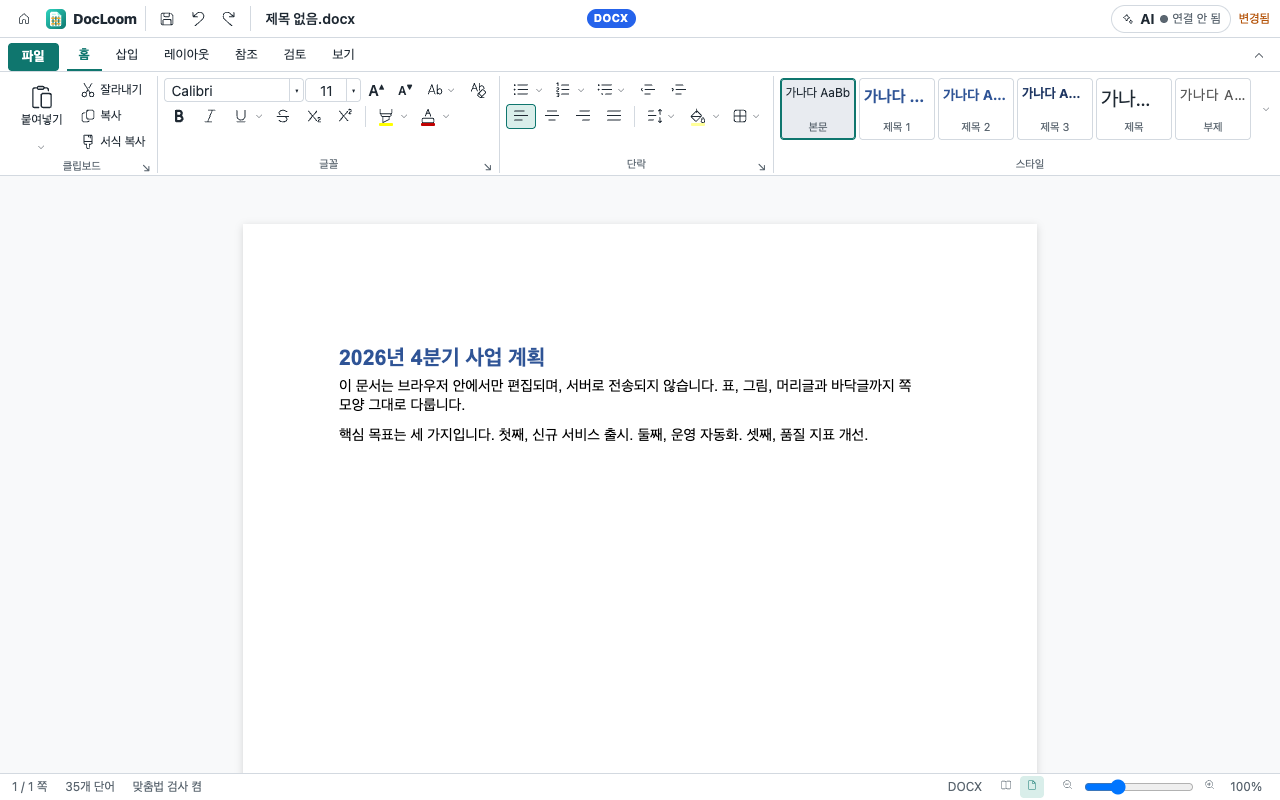
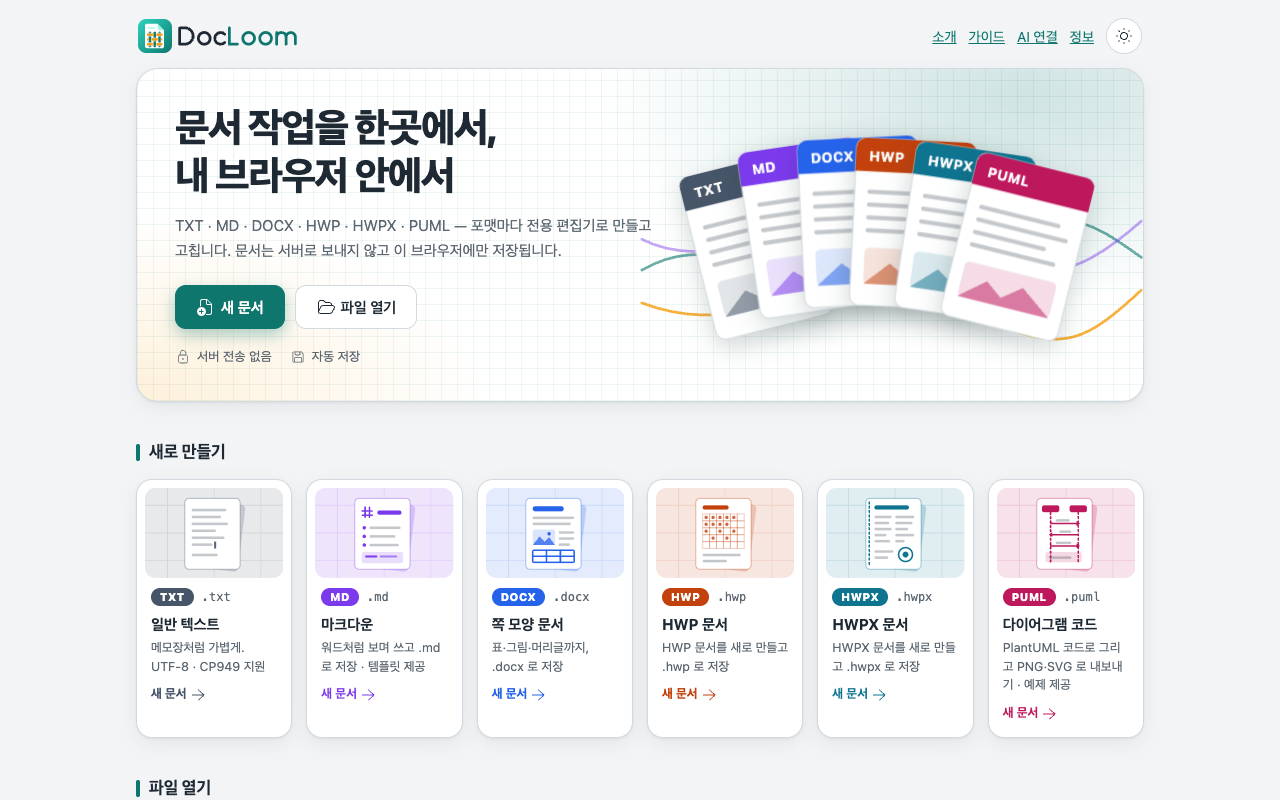
feat(home): 서비스 썸네일을 메인 페이지 PC 화면으로 통일 (1.3.13)

diff --git a/factories/index.html b/factories/index.html
@@ -36,7 +36,7 @@
 <script type="application/ld+json">{"@context":"https://schema.org","@graph":[{"@type":"WebSite","@id":"https://kimjinwan.com/#website","url":"https://kimjinwan.com/","name":"Kein — 김진완","alternateName":["김진완 포트폴리오","Kim Jinwan"],"inLanguage":["ko","en"],"publisher":{"@id":"https://kimjinwan.com/#person"}},{"@type":"Person","@id":"https://kimjinwan.com/#person","name":"김진완","alternateName":["Kim Jinwan","Kein"],"url":"https://kimjinwan.com/","jobTitle":["Software Product Manager","Developer"],"knowsAbout":["PM / PO","Full-stack Dev","Team Leadership","AI Production"]},{"@type":"WebPage","@id":"https://kimjinwan.com/factories/#webpage","url":"https://kimjinwan.com/factories/","name":"서비스를 만드는 AI 공장 5곳 — 김진완","description":"앱, 웹게임, 쇼츠 영상, 블로그, 웹 도구를 꾸준히 만들어 내도록 직접 설계한 AI 공장 5곳. 공장마다 만드는 것과 거치는 단계, 출시 전에 확인하는 기준, 사람이 직접 맡는 일을 정리했습니다.","inLanguage":"ko","dateModified":"2026-10-11","isPartOf":{"@id":"https://kimjinwan.com/#website"},"about":{"@id":"https://kimjinwan.com/#person"},"breadcrumb":{"@id":"https://kimjinwan.com/factories/#breadcrumb"},"primaryImageOfPage":{"@type":"ImageObject","@id":"https://kimjinwan.com/factories/#primaryimage","url":"https://kimjinwan.com/assets/og/factories.png?v=7e303932e4","contentUrl":"https://kimjinwan.com/assets/og/factories.png?v=7e303932e4","thumbnailUrl":"https://kimjinwan.com/assets/og/factories.png?v=7e303932e4","width":1200,"height":630,"caption":"“서비스를 만드는 AI 공장 5곳” — Kein 로고와 김진완 · 개발자 · PM, kimjinwan.com이 적힌 공유 카드"},"thumbnailUrl":"https://kimjinwan.com/assets/og/factories.png?v=7e303932e4"},{"@type":"BreadcrumbList","@id":"https://kimjinwan.com/factories/#breadcrumb","itemListElement":[{"@type":"ListItem","position":1,"name":"홈","item":"https://kimjinwan.com/"},{"@type":"ListItem","position":2,"name":"AI 공장","item":"https://kimjinwan.com/factories/"}]}]}</script>
 <link rel="preconnect" href="https://cdn.jsdelivr.net">
 <link rel="stylesheet" href="https://cdn.jsdelivr.net/gh/orioncactus/pretendard@v1.3.9/dist/web/static/pretendard-dynamic-subset.css">
-<link rel="stylesheet" href="/css/style.css?v=1.3.12">
+<link rel="stylesheet" href="/css/style.css?v=1.3.13">
 <script src="/js/theme-core.js"></script>
 <script>document.documentElement.classList.add('js');__theme.apply()</script>
 </head>

diff --git a/works/index.html b/works/index.html
@@ -36,7 +36,7 @@
 <script type="application/ld+json">{"@context":"https://schema.org","@graph":[{"@type":"WebSite","@id":"https://kimjinwan.com/#website","url":"https://kimjinwan.com/","name":"Kein — 김진완","alternateName":["김진완 포트폴리오","Kim Jinwan"],"inLanguage":["ko","en"],"publisher":{"@id":"https://kimjinwan.com/#person"}},{"@type":"Person","@id":"https://kimjinwan.com/#person","name":"김진완","alternateName":["Kim Jinwan","Kein"],"url":"https://kimjinwan.com/","jobTitle":["Software Product Manager","Developer"],"knowsAbout":["PM / PO","Full-stack Dev","Team Leadership","AI Production"]},{"@type":"WebPage","@id":"https://kimjinwan.com/works/#webpage","url":"https://kimjinwan.com/works/","name":"작업물 — 직접 만들어 운영하는 서비스 · 김진완","description":"김진완이 AI와 함께 직접 만들어 운영하는 서비스, 웹게임, 웹 도구, 앱, 블로그를 한 페이지에 모았습니다. 종류별로 골라 보고 각 작업물의 현재 상태와 바로가기를 확인할 수 있습니다.","inLanguage":"ko","dateModified":"2026-10-11","isPartOf":{"@id":"https://kimjinwan.com/#website"},"about":{"@id":"https://kimjinwan.com/#person"},"breadcrumb":{"@id":"https://kimjinwan.com/works/#breadcrumb"},"primaryImageOfPage":{"@type":"ImageObject","@id":"https://kimjinwan.com/works/#primaryimage","url":"https://kimjinwan.com/assets/og/works.png?v=053e32cb2a","contentUrl":"https://kimjinwan.com/assets/og/works.png?v=053e32cb2a","thumbnailUrl":"https://kimjinwan.com/assets/og/works.png?v=053e32cb2a","width":1200,"height":630,"caption":"“직접 만들어 운영하는 서비스와 작업물” — Kein 로고와 김진완 · 개발자 · PM, kimjinwan.com이 적힌 공유 카드"},"thumbnailUrl":"https://kimjinwan.com/assets/og/works.png?v=053e32cb2a"},{"@type":"BreadcrumbList","@id":"https://kimjinwan.com/works/#breadcrumb","itemListElement":[{"@type":"ListItem","position":1,"name":"홈","item":"https://kimjinwan.com/"},{"@type":"ListItem","position":2,"name":"작업물","item":"https://kimjinwan.com/works/"}]}]}</script>
 <link rel="preconnect" href="https://cdn.jsdelivr.net">
 <link rel="stylesheet" href="https://cdn.jsdelivr.net/gh/orioncactus/pretendard@v1.3.9/dist/web/static/pretendard-dynamic-subset.css">
-<link rel="stylesheet" href="/css/style.css?v=1.3.12">
+<link rel="stylesheet" href="/css/style.css?v=1.3.13">
 <script src="/js/theme-core.js"></script>
 <script>document.documentElement.classList.add('js');__theme.apply()</script>
 </head>

diff --git a/career/index.html b/career/index.html
@@ -36,7 +36,7 @@
 <script type="application/ld+json">{"@context":"https://schema.org","@graph":[{"@type":"WebSite","@id":"https://kimjinwan.com/#website","url":"https://kimjinwan.com/","name":"Kein — 김진완","alternateName":["김진완 포트폴리오","Kim Jinwan"],"inLanguage":["ko","en"],"publisher":{"@id":"https://kimjinwan.com/#person"}},{"@type":"Person","@id":"https://kimjinwan.com/#person","name":"김진완","alternateName":["Kim Jinwan","Kein"],"url":"https://kimjinwan.com/","jobTitle":["Software Product Manager","Developer"],"knowsAbout":["PM / PO","Full-stack Dev","Team Leadership","AI Production"]},{"@type":"WebPage","@id":"https://kimjinwan.com/career/#webpage","url":"https://kimjinwan.com/career/","name":"경력 11년과 프로젝트 55개 — 김진완","description":"영업·기획에서 시작해 개발자, 개발팀장, 차량 소프트웨어 PM까지 이어진 11년 경력과 수행 프로젝트 55개 전체. 시기별 역할과 대표 프로젝트, 경력을 게임으로 둘러보는 Career Run도 있습니다.","inLanguage":"ko","dateModified":"2026-10-11","isPartOf":{"@id":"https://kimjinwan.com/#website"},"about":{"@id":"https://kimjinwan.com/#person"},"breadcrumb":{"@id":"https://kimjinwan.com/career/#breadcrumb"},"primaryImageOfPage":{"@type":"ImageObject","@id":"https://kimjinwan.com/career/#primaryimage","url":"https://kimjinwan.com/assets/og/career.png?v=288f9ea6b4","contentUrl":"https://kimjinwan.com/assets/og/career.png?v=288f9ea6b4","thumbnailUrl":"https://kimjinwan.com/assets/og/career.png?v=288f9ea6b4","width":1200,"height":630,"caption":"“11년, 현장에서 쌓은 경력과 프로젝트 55개” — Kein 로고와 김진완 · 개발자 · PM, kimjinwan.com이 적힌 공유 카드"},"thumbnailUrl":"https://kimjinwan.com/assets/og/career.png?v=288f9ea6b4"},{"@type":"BreadcrumbList","@id":"https://kimjinwan.com/career/#breadcrumb","itemListElement":[{"@type":"ListItem","position":1,"name":"홈","item":"https://kimjinwan.com/"},{"@type":"ListItem","position":2,"name":"경력","item":"https://kimjinwan.com/career/"}]}]}</script>
 <link rel="preconnect" href="https://cdn.jsdelivr.net">
 <link rel="stylesheet" href="https://cdn.jsdelivr.net/gh/orioncactus/pretendard@v1.3.9/dist/web/static/pretendard-dynamic-subset.css">
-<link rel="stylesheet" href="/css/style.css?v=1.3.12">
+<link rel="stylesheet" href="/css/style.css?v=1.3.13">
 <script src="/js/theme-core.js"></script>
 <script>document.documentElement.classList.add('js');__theme.apply()</script>
 </head>

diff --git a/index.html b/index.html
@@ -36,7 +36,7 @@
 <script type="application/ld+json">{"@context":"https://schema.org","@graph":[{"@type":"WebSite","@id":"https://kimjinwan.com/#website","url":"https://kimjinwan.com/","name":"Kein — 김진완","alternateName":["김진완 포트폴리오","Kim Jinwan"],"inLanguage":["ko","en"],"publisher":{"@id":"https://kimjinwan.com/#person"}},{"@type":"Person","@id":"https://kimjinwan.com/#person","name":"김진완","alternateName":["Kim Jinwan","Kein"],"url":"https://kimjinwan.com/","jobTitle":["Software Product Manager","Developer"],"knowsAbout":["PM / PO","Full-stack Dev","Team Leadership","AI Production"]},{"@type":"ProfilePage","@id":"https://kimjinwan.com/#profile","url":"https://kimjinwan.com/","name":"김진완 — AI로 만들고 운영하는 개발자 · PM","description":"개발자·PM 김진완의 허브. 11년 현장 경력을 바탕으로 AI와 함께 직접 만들고 운영하는 서비스, 웹게임, 웹 도구, 블로그, 그리고 그 일을 돌리는 AI 공장 5곳을 한곳에 모았습니다.","inLanguage":"ko","dateModified":"2026-10-11","mainEntity":{"@id":"https://kimjinwan.com/#person"},"isPartOf":{"@id":"https://kimjinwan.com/#website"},"relatedLink":"https://blog.kimjinwan.com/","primaryImageOfPage":{"@type":"ImageObject","@id":"https://kimjinwan.com/#primaryimage","url":"https://kimjinwan.com/assets/og/home.png?v=5f808c45a0","contentUrl":"https://kimjinwan.com/assets/og/home.png?v=5f808c45a0","thumbnailUrl":"https://kimjinwan.com/assets/og/home.png?v=5f808c45a0","width":1200,"height":630,"caption":"“AI로 만들고 운영하는 서비스 · 공장 · 기록” — Kein 로고와 김진완 · 개발자 · PM, kimjinwan.com이 적힌 공유 카드"},"thumbnailUrl":"https://kimjinwan.com/assets/og/home.png?v=5f808c45a0"}]}</script>
 <link rel="preconnect" href="https://cdn.jsdelivr.net">
 <link rel="stylesheet" href="https://cdn.jsdelivr.net/gh/orioncactus/pretendard@v1.3.9/dist/web/static/pretendard-dynamic-subset.css">
-<link rel="stylesheet" href="/css/style.css?v=1.3.12">
+<link rel="stylesheet" href="/css/style.css?v=1.3.13">
 <script src="/js/theme-core.js"></script>
 <script>document.documentElement.classList.add('js');__theme.apply()</script>
 </head>

diff --git a/DEPLOYMENT.md b/DEPLOYMENT.md
@@ -1,5 +1,9 @@
 # 배포 및 검색 설정 — 2026-09-09
 
+## 1.3.13 배포 기록 — 2026-10-11
+
+서비스 썸네일 기준을 **각 서비스 메인(소개) 페이지 PC 화면 1280×800** 으로 통일했다. Fitwright·DocLoom·Pitchwright 를 앱 작업 화면에서 메인 페이지 캡처로 교체하고 Casewright 는 같은 방식으로 다시 찍었다. 직전 1.3.12 는 복구용 유지.
+
 ## 1.3.12 배포 기록 — 2026-10-11
 
 대표 서비스에 **Fitwright**(https://fitwright.kimjinwan.com/, 공고 작성 + 지원자 평가, 상태 prelaunch, 분류 document)를 추가했다. 썸네일은 서비스 소개 페이지의 실제 앱 화면(공고 작성 W2 필수 스펙) 1280×800. 직전 1.3.11 은 복구용 유지.
